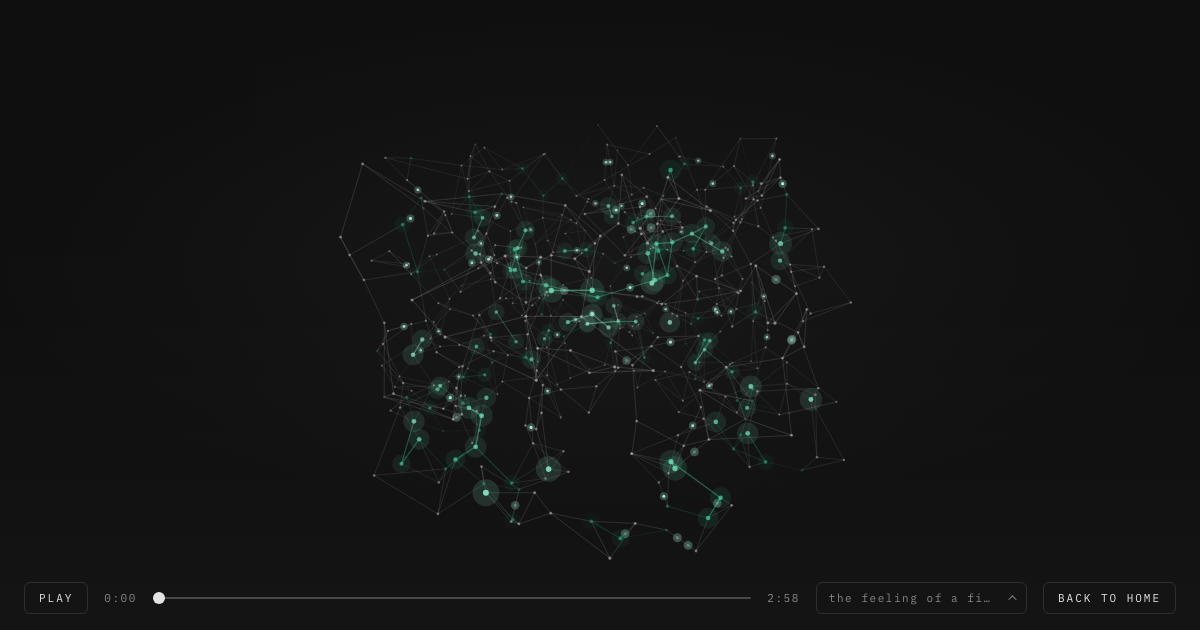
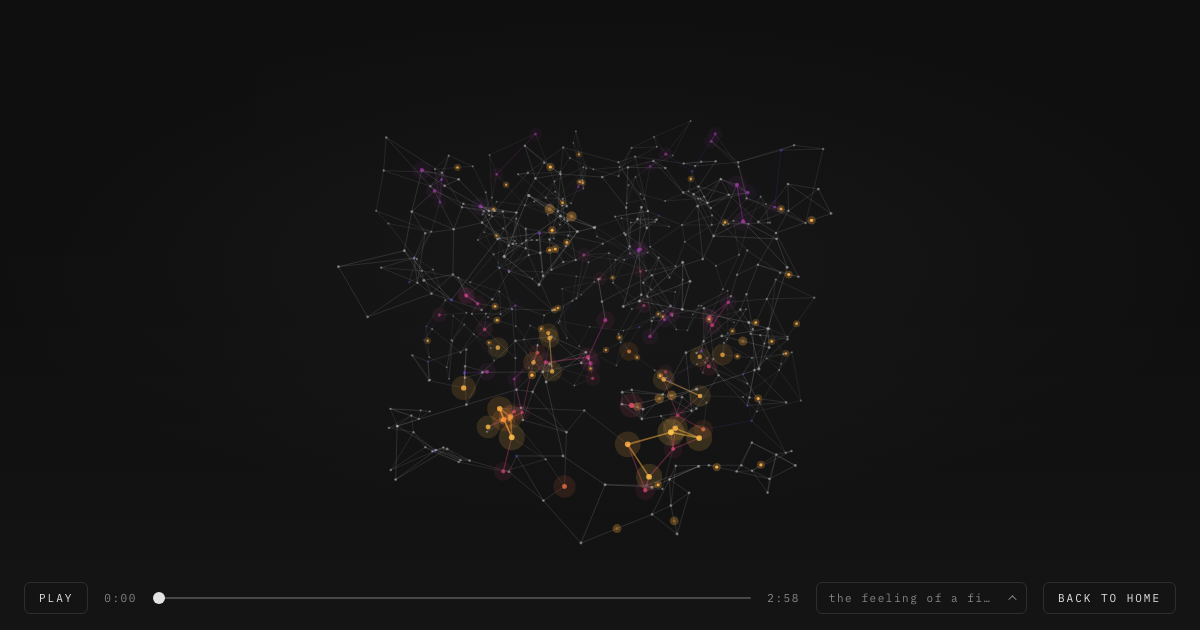
Swap activation color to a cold-to-warm thermal ramp
Multi-color returns with a different palette: resting cool slate
through indigo, violet, magenta, crimson, orange, and gold to warm
white at full recruitment, skipping the old green band entirely, with
deepened variants for the light theme. The og demo screenshot is
regenerated to match.

diff --git a/src/scripts/neural.js b/src/scripts/neural.js
@@ -99,27 +99,33 @@
   nodes.forEach(function (n, ni) { cellNodes[n.cell].push(ni); });
 
   // Palette from the live theme tokens, re-read when the theme flips.
-  // Activation climbs a single-hue ramp: emerald in lighter and darker
-  // variants only. Dark theme runs dim moss up to pale mint, the light
-  // theme mirrors it downward from soft sage to near-black green. The
-  // input is gamma-lifted so the ramp's middle lives where activations
-  // actually sit.
+  // Activation climbs a cold-to-warm thermal ramp: resting cool slate
+  // through indigo, violet, magenta, crimson, orange, and gold to warm
+  // white at full recruitment (deepened variants on the light theme).
+  // The input is gamma-lifted so the ramp's middle lives where
+  // activations actually sit.
   var ink = "#808080";
   var DARK_STOPS = [
-    [58, 84, 74],
-    [22, 140, 100],
-    [52, 211, 153],
-    [150, 240, 205],
-    [225, 255, 242],
+    [70, 85, 120],
+    [64, 80, 210],
+    [130, 60, 220],
+    [200, 60, 180],
+    [240, 80, 100],
+    [255, 140, 50],
+    [255, 200, 80],
+    [255, 245, 225],
   ];
   var LIGHT_STOPS = [
-    [148, 186, 170],
-    [52, 168, 124],
-    [5, 150, 105],
-    [4, 100, 70],
-    [2, 52, 37],
+    [100, 112, 132],
+    [58, 70, 180],
+    [110, 45, 185],
+    [168, 38, 140],
+    [196, 50, 70],
+    [205, 105, 20],
+    [170, 120, 10],
+    [80, 40, 5],
   ];
-  var POS = [0, 0.25, 0.5, 0.75, 1];
+  var POS = [0, 0.14, 0.28, 0.42, 0.58, 0.72, 0.86, 1];
   var stops = DARK_STOPS;
   function ramp(a) {
     a = Math.pow(Math.max(0, Math.min(1, a)), 0.75);
